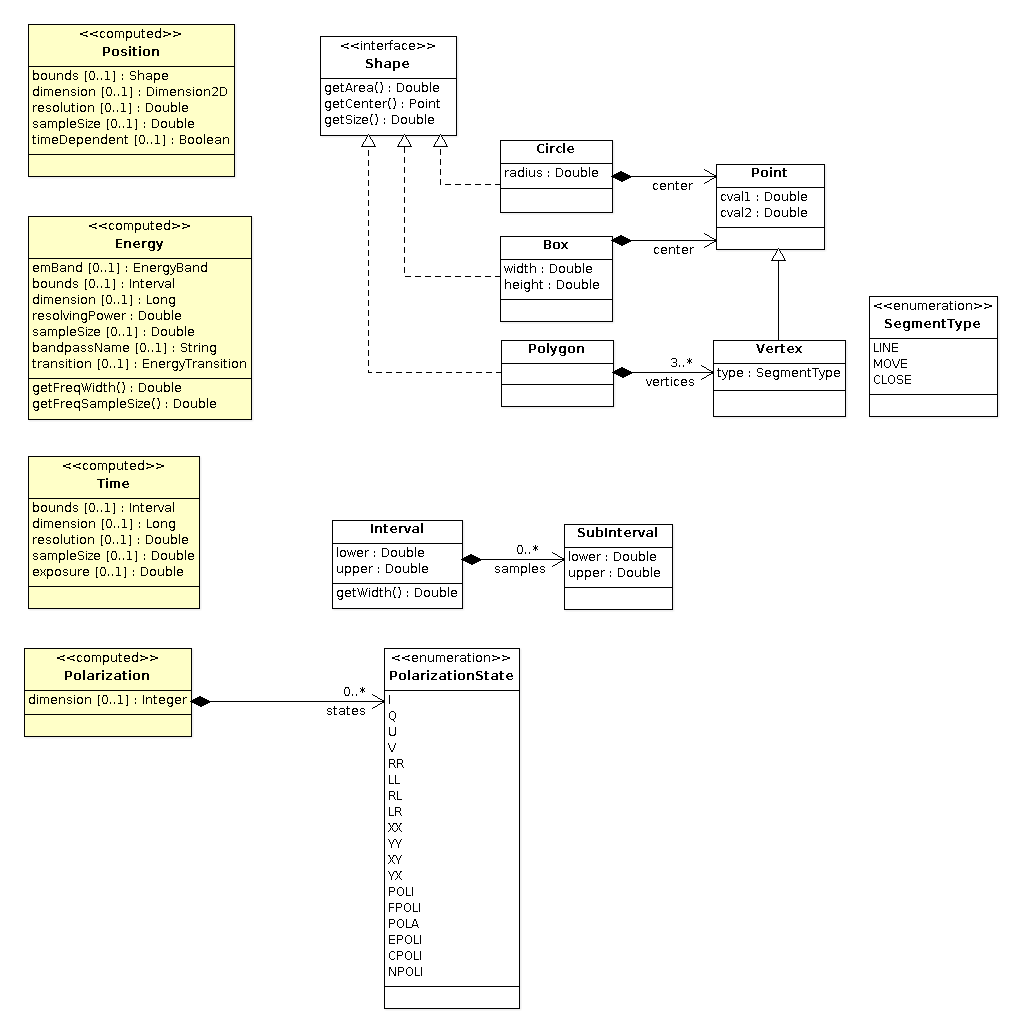
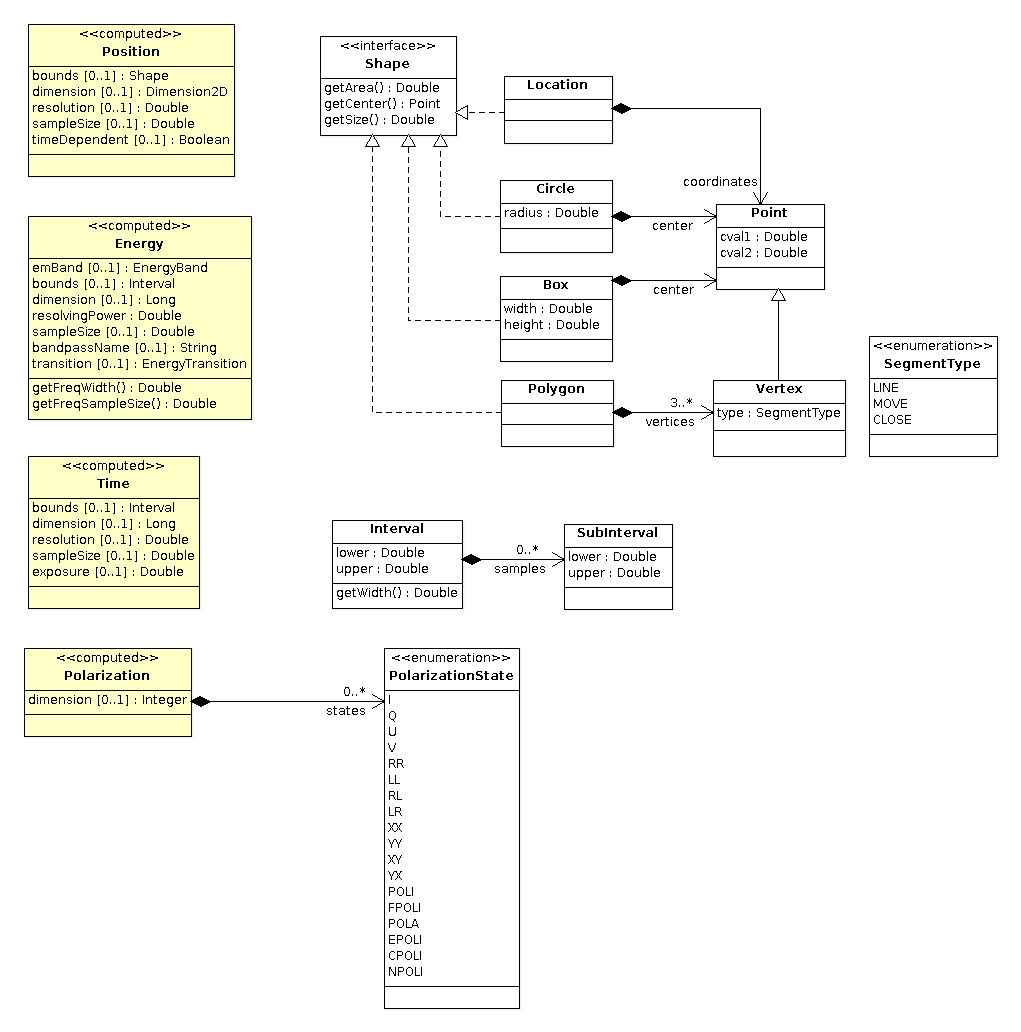
restored Location class for use in AdvancedSearch

diff --git a/source/caom2/src/www/index.html b/source/caom2/src/www/index.html
@@ -439,8 +439,6 @@ DataLink service.
 <h3>Changes</h3>
 
 <ul>
-    <li>2012-11-26 (red outline): removed Location as it provides nothing beyond Point and we do not intent it as a
-        valid value for Plane.position.bounds</li>
     <li>2013-09-08: added PolarizationState literals: POLI (polarized intensity), FPOLI (fractional polarized intensity), 
         POLA (linear polarized angle), EPOLI (elliptical polarized intensity), CPOLI (circular polarized intensity), 
         and NPOLI (non-polarized intensity)</li>

diff --git a/source/caom2/src/ca/nrc/cadc/caom2/types/Location.java b/source/caom2/src/ca/nrc/cadc/caom2/types/Location.java
@@ -69,39 +69,69 @@
 
 package ca.nrc.cadc.caom2.types;
 
-import java.io.Serializable;
+import ca.nrc.cadc.caom2.util.CaomValidator;
+import ca.nrc.cadc.util.HexUtil;
 
 /**
  *
  * @author pdowler
  */
-public interface Shape extends Serializable
+public class Location implements Shape
 {
-    public static final int MAGIC_LOCATION  = 1;
-    public static final int MAGIC_CIRCLE    = 2;
-    public static final int MAGIC_ELLIPSE   = 3;
-    public static final int MAGIC_POLYGON   = 4;
-    public static final int MAGIC_BOX       = 5;
+    private static final long serialVersionUID = 201202081100L;
     
-    /**
-     * Get the central coordinates of this shape.
-     *
-     * @return
-     */
-    public Point getCenter();
+    private Point coordinates;
 
-    /**
-     * Get the area of this shape.
-     *
-     * @return area
-     */
-    public double getArea();
+    public Location(Point coordinates)
+    {
+        CaomValidator.assertNotNull(Location.class, "coordinates", coordinates);
+        this.coordinates = coordinates;
+    }
 
-    /**
-     * Get the size of this shape.  The size is the diameter of the minimum
-     * bounding circle
-     *
-     * @return area
-     */
-    public double getSize();
+    public double getArea()
+    {
+        return 0.0;
+    }
+
+    public Point getCenter()
+    {
+        return coordinates;
+    }
+
+    public double getSize()
+    {
+        return 0.0;
+    }
+
+    @Override
+    public String toString()
+    {
+        return this.getClass().getSimpleName() + "[" + coordinates + "]";
+    }
+
+    public static byte[] encode(Location p)
+    {
+        byte[] ret = new byte[21];
+        byte[] b = HexUtil.toBytes(MAGIC_LOCATION);
+        System.arraycopy(b, 0, ret, 0, 4);
+        b = HexUtil.toBytes(Double.doubleToLongBits(p.coordinates.cval1));
+        System.arraycopy(b, 0, ret, 4, 8);
+        b = HexUtil.toBytes(Double.doubleToLongBits(p.coordinates.cval2));
+        System.arraycopy(b, 0, ret, 12, 8);
+        ret[ret.length-1] = (byte) 1; // trailing 1 so some broken DBs don't truncate
+        return ret;
+    }
+
+    public static Location decode(byte[] encoded)
+    {
+        int magic = HexUtil.toInt(encoded, 0);
+        if (magic != MAGIC_LOCATION)
+            throw new IllegalArgumentException("encoded array does not start with Shape.MAGIC_LOCATION");
+        if (encoded.length != 21)
+            throw new IllegalStateException("encoded array is wrong length: " + encoded.length + ", expected 21");
+
+        double x = Double.longBitsToDouble(HexUtil.toLong(encoded, 4));
+        double y = Double.longBitsToDouble(HexUtil.toLong(encoded, 12));
+        return new Location(new Point(x, y));
+    }
 }
